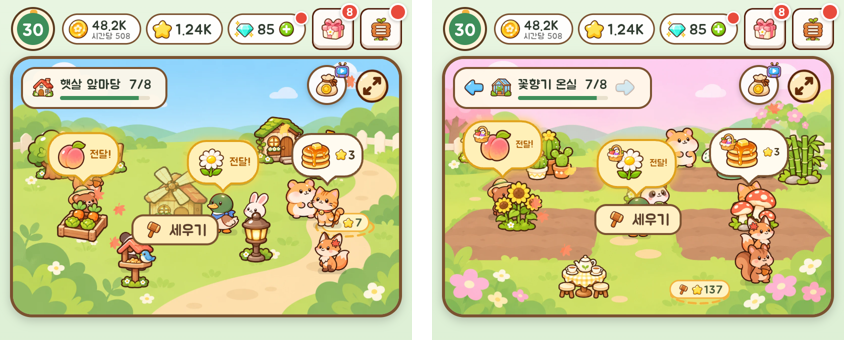
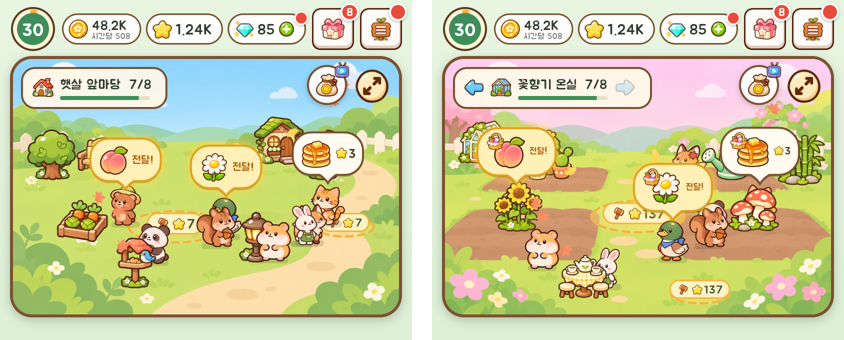
Landmark spot uses the same grammar as decor slots: dashed plot + hammer + star price; build costs stars (priciest decor of the area), levels cost coins
- Removed the ghost image and custom sign
- Tap: builds if enough stars, otherwise opens the landmark sheet
- Request friends' roaming avoids the spot; year sim: 6 areas done day 69 (was 64), renewals 13

Claude-Session: https://claude.ai/code/session_011jC4ZDqrEaYqEhudpbFCaM

diff --git a/lib/ui/garden/garden_scene.dart b/lib/ui/garden/garden_scene.dart
@@ -178,9 +178,9 @@ class _GardenSceneState extends State<GardenScene>
   bool _inLandmark(Offset p) {
     if (_landmarkArt == null && !_landmarkGhost) return false;
     final a = Garden.areaAt(widget.area);
-    return (p.dx - a.landmarkX).abs() < 0.11 &&
+    return (p.dx - a.landmarkX).abs() < 0.13 &&
         p.dy > a.landmarkY - 0.12 &&
-        p.dy < a.landmarkY + 0.03;
+        p.dy < a.landmarkY + 0.08;
   }
 
   int? _walkArea;
@@ -213,6 +213,7 @@ class _GardenSceneState extends State<GardenScene>
       spot.dx + (_rng.nextDouble() * 2 - 1) * _orderRoam,
       spot.dy + (_rng.nextDouble() * 2 - 1) * _orderRoam * 0.5,
     );
+    if (_inLandmark(p)) return spot;
     for (final z in zones) {
       if (p.dx >= z.x0 && p.dx <= z.x1 && p.dy >= z.y0 && p.dy <= z.y1) {
         return p;
@@ -641,80 +642,6 @@ class _GardenSceneState extends State<GardenScene>
       ));
     }
 
-    // 아직 안 세운 랜드마크 자리: 반투명 미리보기 + '세우기' 팻말 (누르면 랜드마크 창)
-    final ghost = _landmarkGhost;
-    if (ghost) {
-      final h = unit * GardenScene.decorK * Landmarks.scale * 0.85;
-      final p = px(area.landmarkX, area.landmarkY);
-      final glow = 0.5 + 0.5 * sin(_t * 3);
-      layers.add((
-        y: p.dy,
-        child: Positioned(
-          key: ValueKey('landmark-ghost-${widget.area}'),
-          left: p.dx - h * 0.6,
-          top: p.dy - h,
-          width: h * 1.2,
-          height: h + 8,
-          child: GestureDetector(
-            onTap: () => widget.onLandmarkTap!(widget.area),
-            child: Stack(
-              alignment: Alignment.bottomCenter,
-              children: [
-                Opacity(
-                  opacity: 0.55 + 0.1 * glow,
-                  child: Image.asset(
-                    Art.landmark(widget.area, 1).path,
-                    fit: BoxFit.contain,
-                    alignment: Alignment.bottomCenter,
-                    errorBuilder: (_, _, _) => const SizedBox.shrink(),
-                  ),
-                ),
-              ],
-            ),
-          ),
-        ),
-      ));
-      // '세우기' 팻말은 친구들보다 앞에 (가려지지 않게)
-      final glow2 = 0.5 + 0.5 * sin(_t * 3);
-      layers.add((
-        y: 99999,
-        child: Positioned(
-          key: ValueKey('landmark-sign-${widget.area}'),
-          left: p.dx - 70,
-          top: p.dy - 14,
-          width: 140,
-          height: 34,
-          child: Center(
-            child: GestureDetector(
-              onTap: () => widget.onLandmarkTap!(widget.area),
-              child: Container(
-                padding: const EdgeInsets.symmetric(
-                  horizontal: 10,
-                  vertical: 3,
-                ),
-                decoration: BoxDecoration(
-                  color: Color.lerp(
-                    const Color(0xFFFFF1C9),
-                    const Color(0xFFFFE08A),
-                    glow2,
-                  ),
-                  borderRadius: BorderRadius.circular(12),
-                  border: Border.all(color: const Color(0xFF7A5230), width: 2),
-                ),
-                child: IconText(
-                  '[[decorate]] ${tr('landmark.build')}',
-                  style: const TextStyle(
-                    fontSize: 15,
-                    color: Color(0xFF5C402C),
-                  ),
-                ),
-              ),
-            ),
-          ),
-        ),
-      ));
-    }
-
     for (var i = 0; i < area.decor.length; i++) {
       final d = area.decor[i];
       final p = px(d.x, d.y);
@@ -891,9 +818,56 @@ class _GardenSceneState extends State<GardenScene>
     return (c: Offset(gx(d.x, s.width), y), w: w);
   }
 
+  /// 랜드마크 빈자리 (장식 빈자리와 같은 모양, 조금 크게).
+  ({Offset c, double w})? _landmarkSlot(AreaDef area, Size s) {
+    if (!_landmarkGhost) return null;
+    final unit = min(s.width, s.height * 1.6);
+    final w = unit * GardenScene.decorK * 1.5 * widget.markerScale;
+    return (
+      c: Offset(gx(area.landmarkX, s.width), area.landmarkY * s.height),
+      w: w,
+    );
+  }
+
   List<Widget> _markerLayer(AreaDef area, Size s) {
-    if (widget.area != game.currentArea) return const [];
     final out = <Widget>[];
+    final ls = _landmarkSlot(area, s);
+    if (ls != null) {
+      final ok = game.canBuildLandmark(widget.area);
+      final glow = ok ? 0.5 + 0.5 * sin(_t * 4) : 0.0;
+      out.add(
+        Positioned(
+          left: ls.c.dx - ls.w / 2,
+          top: ls.c.dy - ls.w * 0.62,
+          width: ls.w,
+          height: ls.w * 0.8,
+          child: Stack(
+            alignment: Alignment.bottomCenter,
+            children: [
+              Positioned(
+                left: 0,
+                right: 0,
+                bottom: 0,
+                height: ls.w * 0.36,
+                child: CustomPaint(
+                  painter: _PlotPainter(affordable: ok, glow: glow),
+                ),
+              ),
+              Positioned(
+                bottom: ls.w * 0.1,
+                child: _CostTag(
+                  locked: false,
+                  affordable: ok,
+                  cost: game.landmarkBuildStars(widget.area),
+                  size: ls.w * 0.18,
+                ),
+              ),
+            ],
+          ),
+        ),
+      );
+    }
+    if (widget.area != game.currentArea) return out;
     for (var i = 0; i < area.decor.length; i++) {
       if (game.isPlaced(widget.area, i)) continue;
       final g = _slotGeom(area, i, s);
@@ -935,7 +909,29 @@ class _GardenSceneState extends State<GardenScene>
   }
 
   List<Widget> _markerHits(AreaDef area, Size s) {
-    if (widget.area != game.currentArea) return const [];
+    final ls = _landmarkSlot(area, s);
+    return [
+      // 랜드마크 빈자리: 별이 있으면 바로 세우고, 모자라면 랜드마크 창 (별 · 설명)
+      if (ls != null)
+        Positioned(
+          left: ls.c.dx - ls.w / 2,
+          top: ls.c.dy - ls.w * 0.45,
+          width: ls.w,
+          height: ls.w * 0.6,
+          child: GestureDetector(
+            behavior: HitTestBehavior.translucent,
+            onTap: () {
+              if (!game.buildLandmark(widget.area)) {
+                widget.onLandmarkTap?.call(widget.area);
+              }
+            },
+          ),
+        ),
+      if (widget.area == game.currentArea) ..._decorHits(area, s),
+    ];
+  }
+
+  List<Widget> _decorHits(AreaDef area, Size s) {
     return [
       for (var i = 0; i < area.decor.length; i++)
         if (!game.isPlaced(widget.area, i))

diff --git a/lib/ui/sheets.dart b/lib/ui/sheets.dart
@@ -177,16 +177,22 @@ class LandmarkRow extends StatelessWidget {
               mainAxisSize: MainAxisSize.min,
               children: [
                 CostButton(
-                  label: maxed
+                  label: lv == 0
+                      ? '${tr('landmark.build')} [[star]]${game.landmarkBuildStars(area)}'
+                      : maxed
                       ? tr('common.max')
                       : game.landmarkCapped(area)
                       ? tr('upgrade.needLevel', {'n': lv + 6})
-                      : '${lv == 0 ? '${tr('landmark.build')} ' : '[[coin]] '}${fmt(game.landmarkCost(area))}',
-                  onPressed: game.canUpgradeLandmark(area)
+                      : '[[coin]] ${fmt(game.landmarkCost(area))}',
+                  onPressed: lv == 0
+                      ? (game.canBuildLandmark(area)
+                            ? () => game.buildLandmark(area)
+                            : null)
+                      : game.canUpgradeLandmark(area)
                       ? () => game.upgradeLandmark(area)
                       : null,
                 ),
-                if (bulk >= 2) ...[
+                if (bulk >= 2 && lv >= 1) ...[
                   const SizedBox(height: 4),
                   CostButton(
                     label: tr('upgrade.max', {'n': bulk}),

diff --git a/tool/balance/balance_sim_test.dart b/tool/balance/balance_sim_test.dart
@@ -224,10 +224,17 @@ class Sim {
           }
         }
       }
-      // 랜드마크 (D-048)
+      // 랜드마크 (D-048): 별이 남으면 세우고, 레벨업은 코인
       for (var a = 0; a < Landmarks.ids.length; a++) {
+        if (g.placed.length == Garden.slotsPerArea || a < g.currentArea) {
+          g.buildLandmark(a);
+        }
         if (g.canUpgradeLandmark(a)) {
-          cands.add((g.landmarkCost(a), 'landmark', () => g.upgradeLandmark(a)));
+          cands.add((
+            g.landmarkCost(a),
+            'landmark',
+            () => g.upgradeLandmark(a),
+          ));
         }
       }
       if (cands.isEmpty) return;
@@ -571,11 +578,12 @@ const profS = Profile('A-noStyles (coins only on functional sinks)', [
   18,
   22,
 ], buyStyles: false);
-const profW = Profile(
-  'W whale-collector (A + all special designs)',
-  [8, 12.5, 18, 22],
-  ownSpecial: true,
-);
+const profW = Profile('W whale-collector (A + all special designs)', [
+  8,
+  12.5,
+  18,
+  22,
+], ownSpecial: true);
 const profB = Profile(
   'B heavy',
   [7, 9, 11, 13, 15, 17, 19, 22],

diff --git a/lib/game/game_state.dart b/lib/game/game_state.dart
@@ -767,8 +767,29 @@ class GameState extends ChangeNotifier {
   int get landmarkCap => min(Landmarks.maxLevel, max(1, level - 5));
   bool landmarkCapped(int area) => landmarkLevel(area) >= landmarkCap;
 
+  /// 세우기(Lv0 → 1)는 다른 장식처럼 별로: 그 구역 가장 비싼 장식만큼.
+  int landmarkBuildStars(int area) =>
+      Garden.decorCost(area, Garden.slotsPerArea - 1);
+
+  bool canBuildLandmark(int area) =>
+      landmarkOpen(area) &&
+      landmarkLevel(area) == 0 &&
+      stars >= landmarkBuildStars(area);
+
+  bool buildLandmark(int area) {
+    if (!canBuildLandmark(area)) return false;
+    stars -= landmarkBuildStars(area);
+    landmarks[area] = 1;
+    _events.add(LandmarkEvent(area, 1, newStage: true));
+    _trace('landmark', '$area,1,build');
+    notifyListeners();
+    return true;
+  }
+
+  /// 레벨업(Lv1 부터)은 코인.
   bool canUpgradeLandmark(int area) =>
       landmarkOpen(area) &&
+      landmarkLevel(area) >= 1 &&
       landmarkLevel(area) < landmarkCap &&
       coins >= landmarkCost(area);
 

diff --git a/test/economy_test.dart b/test/economy_test.dart
@@ -594,7 +594,10 @@ void main() {
     );
     g.coins = 1e15;
     final gm0 = g.gardenMultiplier;
-    expect(g.upgradeLandmark(0), isTrue);
+    expect(g.upgradeLandmark(0), isFalse); // 세우기는 별로 먼저
+    g.stars = g.landmarkBuildStars(0);
+    expect(g.buildLandmark(0), isTrue);
+    expect(g.stars, 0);
     expect(g.landmarkLevel(0), 1);
     expect(g.gardenMultiplier, greaterThan(gm0));
     final n = g.upgradeLandmarkMax(0);

diff --git a/docs/BIBLE.md b/docs/BIBLE.md
@@ -332,7 +332,7 @@
 | D-045 | 11-22 | 공유 · 자랑하기 + 친구 초대: 자랑 카드 4종(내 정원 · 구역 완성 · 재단장 · 전설 아이템, 4:5 1080×1350, 로고 · 친구 코드 · 좌하단/우하단 친구 그림)을 앱 안에서 그려 휴대폰 기본 공유창으로. 축하창에 버튼만 붙이고 자동 팝업은 없음. 카드에는 말풍선 · 리본 글자 · 쓸데없는 딱지를 넣지 않는다: 내 정원 · 구역 완성은 장식과 친구를 모두 놓은 실제 정원 모습, 전설 아이템만 우상단 'LV.30!' 딱지, 아래 두 친구는 카드마다 다른 종류 · 포즈. 초대 링크 = Play 스토어 링크 + 설치 추천인(`referrer=code=…`)으로 첫 실행 때 친구 자동 맺기, 안 되면 코드 직접 입력. 보상: 공유 하루 1번 에너지 10 · 초대받은 새 계정 환영 선물 다이아 50 · 초대한 사람은 그 친구가 **가입 7일 뒤 · 서로 다른 5일 접속 · Lv15** 을 채우면 다이아 100 (최대 5명 = 500). Firestore `invites/{초대받은uid}` 만들기만. 카톡 전용 공유 · io 경유 링크는 2차. 시안 `docs/share/mock_cards.png`, 그림 4건(312~315) + 로딩 · UI 부품 · 꾸밈 조각(316~318) 반입. 구현: 카드는 앱 안 캔버스로 그림(lib/ui/share_card.dart), 정원 화면 카메라 버튼 · 구역 완성 · 재단장 완료 · 전설 아이템(첫 30단계)에서 미리보기 → 공유창. 초대 정보는 공개 프로필의 days · invitedBy(한 번 정하면 못 바꿈) · invitedAt, 초대한 사람이 invitedBy==나 로 찾아 서로 친구 + 보상. 친구 창에 초대 칸(진행 Lv · 날 · 남은 날) | ✅ |
 | D-046 | 11-22 | 꾸밈 효과 (과금 효율 상한): **무과금 완성 = 과금 완성의 40%**, 고과금이 너무 앞서지 않게. ① 꾸밈 점수: 특별(다이아) 디자인 1점 · 고급(코인) 0.4점, 1점 = 영구 수입 +0.25% (특별 전부 +12%, 고급 전부 +4.8%), 친구에게 공개. ② 구역 세트(그 구역 8자리 디자인을 모두 가짐, 높은 쪽 하나만): 앞마당 에너지 통 +5/+2 · 연못 에너지 회복 +5%/+2% · 온실 부탁 별 +5%/+2% · 별빛 언덕 오프라인 최대 +1시간/+24분 · 모래사장 행운 +2%p/+0.8%p · 눈꽃 손님 코인 +10%/+4% (특별/고급). ③ 특별 디자인 가격 80+40×구역(80~280) → 6구역 전부 8,640다이아(₩19,000 한 번으로 끝나지 않게). ④ 계절 세트 보너스 +5% → +2% (24세트 상한 +48%). 구현: 디자인 창에 구역 세트 진행(특별 n/8 · 고급 n/8)과 효과 · 꾸밈 점수 표시, 친구 목록 · 구경 화면에 꾸밈 점수 (프로필 score). 1년 시뮬(A 무과금 · 고급을 코인으로 vs W 같은 플레이 + 특별 디자인 전부): 재단장 13회 같음(13번째 D331 vs D316), 12구역 진입 D271 vs D259, 1년 부탁 9,884 vs 10,499(+6%), Lv86 vs 87, 최고 단계 140~224일 vs 144~221일 → 고과금 진행 이득 약 5~6%(외형 · 점수가 주 동기), 무과금은 고급 세트 6개 · 점수 19.2(과금 48의 40%) 달성 | ✅ |
 | D-047 | 11-22 | 콘텐츠 소모 속도 (1년 시뮬, 하루 48분 성실 유저): 새 그림 구역 6개를 43일에 다 쓰는데 도감 120종 224일 · 상한 강화 105일 · 재단장 1년 13회라 구역만 너무 빨랐다. 4~6구역 별 비용 1150 · 2350 · 4200 → 1600 · 3900 · 8000 으로 6구역 완성 43일 → 64일 (재단장 13회 · 최고 단계 159~194일은 그대로). 나머지는 비공개 테스트 지표(구역 진입일)로 원격 area_star_scale 조정. 반복 콘텐츠(주간 이벤트 등)는 1015 이후, 새 프로젝트 vs 이 게임 확장 결정 뒤에 | ✅ |
-| D-048 | 11-22 | 재단장 뒤 코인 소모처 재설계 (성장 · 소모의 굴레). 1년 시뮬: 3개월 뒤 코인의 ~100% 가 강화 한 곳, 재단장 직후 0초치 강화 연타 → 그 뒤 8시간치 한 번, 사도 화면이 안 바뀜. **A ✅ 일괄 강화**(강화 창 '최대 ×n', 바구니 등급 제외, 축하 연출) · **D ✅ ×2 목표 막대**(생산력 25단계마다 ×2 까지 남은 단계, 넘으면 축하). **B 🟡 정원 랜드마크**: 구역마다 큰 조형물 1개(풍차 · 물레방아 · 꽃 시계탑 · 천문대 · 범선 · 얼음 궁전), 코인으로 레벨업, 재단장해도 유지. 가격은 고정이 아니라 **지금 시간당 수입 × h(L)** (초안 h = 0.5시간 × 1.12^L: Lv1 30분 · Lv20 약 5시간 · Lv40 약 47시간 · 최대 Lv50 약 145시간, 최대는 달성하기 어렵게). 효과 초안: 레벨당 정원 매력 +1%, 10레벨마다 +5% 더. 그림은 10레벨마다 다음 단계(Lv1 · 10 · 20 · 30, 6 × 4장 발주 319~324). **배치: 맵 한가운데 땅의 중심 요소**(장식의 약 2.3배). 이를 위해 장식 18% → 15% · 친구 15% → 12% · 정원에 동시에 보이는 친구 최대 8마리 · 뒷줄 가운데 장식 2개를 양옆으로(x 0.37/0.63 → 0.29/0.71), 친구 · 부탁 자리는 랜드마크 바닥을 피함 (시안 docs/share/layout_compare.png · layout_home.png). 랜드마크와 함께 적용. **B ✅ 구현(그림 대기)**: 가격 = 지금 시간당 수입(플레이 중 실제로 버는 코인 속도, 5분 창 지수 평균 earnRate, 오프라인 보상 제외) × 0.12시간 × 1.115^L, 매력 = 레벨당 +0.4% · 10레벨마다 +3% (Lv50 하나 +35%). 처음 '기본 수입' 기준으로 잡았더니 실제 수입의 85%가 부탁이라 3개월에 6개 모두 Lv50 · 수입 배율 2배가 됐음 → 실제 버는 속도 기준으로 바꿈. 1년 시뮬(A): 30일 Lv10 · 180일 Lv20 · 365일 Lv28~29, 매력 합 +104%, 재단장 13회 · 최고 단계 153~225일로 다른 진행은 그대로. 그림(319~324)이 들어오면 강화 창 '정원 랜드마크' 칸과 정원 가운데에 자동으로 나타남. **B 보완 (1018)**: 랜드마크가 늘 지난 구역에만 서서 안 보이던 문제 → 들어온 구역(지금 구역 포함)에서 세울 수 있게, 안 세운 자리는 반투명 미리보기 + 맨 앞 '세우기' 팻말(누르면 랜드마크 창), 강화가 열린 뒤부터. 초반 싼 수입으로 몰아 올리던 것(7일 Lv23) → 레벨 상한 = 플레이어 레벨 − 5. 1년 시뮬: 7일 Lv5 · 30일 Lv9 · 180일 Lv21 · 365일 Lv28~29, 재단장 13회. **C 🟡 꾸밈 기물 레벨**: 놓은 장식(48자리)마다 레벨, 코인으로 올림, 가격은 지금 수입 × 0.25시간 × 1.15^L, 최대 Lv30(어렵게). 레벨당 매력 +0.2%, 10레벨마다 외형 단계(은 · 금 · 무지개 반짝임 테두리, 효과 그림 3종 발주 예정). **다이아 기물은 높은 레벨에서 출발**: 특별 디자인 +20 · 시즌 +12 · 고급 +6 레벨만큼 효과를 미리 얹고, 레벨업은 모두 코인 → 과금은 '높은 출발선', 성장 노동은 같아 격차가 유지되고 시즌 기물을 사는 재미가 생김. B · C 는 비공개 테스트 2주 지표(재단장까지 가는 비율 · 코인 잔고) 뒤 1년 시뮬로 수치 확정 후 구현 | 🟡 A·D ✅ / B·C 설계 |
+| D-048 | 11-22 | 재단장 뒤 코인 소모처 재설계 (성장 · 소모의 굴레). 1년 시뮬: 3개월 뒤 코인의 ~100% 가 강화 한 곳, 재단장 직후 0초치 강화 연타 → 그 뒤 8시간치 한 번, 사도 화면이 안 바뀜. **A ✅ 일괄 강화**(강화 창 '최대 ×n', 바구니 등급 제외, 축하 연출) · **D ✅ ×2 목표 막대**(생산력 25단계마다 ×2 까지 남은 단계, 넘으면 축하). **B 🟡 정원 랜드마크**: 구역마다 큰 조형물 1개(풍차 · 물레방아 · 꽃 시계탑 · 천문대 · 범선 · 얼음 궁전), 코인으로 레벨업, 재단장해도 유지. 가격은 고정이 아니라 **지금 시간당 수입 × h(L)** (초안 h = 0.5시간 × 1.12^L: Lv1 30분 · Lv20 약 5시간 · Lv40 약 47시간 · 최대 Lv50 약 145시간, 최대는 달성하기 어렵게). 효과 초안: 레벨당 정원 매력 +1%, 10레벨마다 +5% 더. 그림은 10레벨마다 다음 단계(Lv1 · 10 · 20 · 30, 6 × 4장 발주 319~324). **배치: 맵 한가운데 땅의 중심 요소**(장식의 약 2.3배). 이를 위해 장식 18% → 15% · 친구 15% → 12% · 정원에 동시에 보이는 친구 최대 8마리 · 뒷줄 가운데 장식 2개를 양옆으로(x 0.37/0.63 → 0.29/0.71), 친구 · 부탁 자리는 랜드마크 바닥을 피함 (시안 docs/share/layout_compare.png · layout_home.png). 랜드마크와 함께 적용. **B ✅ 구현(그림 대기)**: 가격 = 지금 시간당 수입(플레이 중 실제로 버는 코인 속도, 5분 창 지수 평균 earnRate, 오프라인 보상 제외) × 0.12시간 × 1.115^L, 매력 = 레벨당 +0.4% · 10레벨마다 +3% (Lv50 하나 +35%). 처음 '기본 수입' 기준으로 잡았더니 실제 수입의 85%가 부탁이라 3개월에 6개 모두 Lv50 · 수입 배율 2배가 됐음 → 실제 버는 속도 기준으로 바꿈. 1년 시뮬(A): 30일 Lv10 · 180일 Lv20 · 365일 Lv28~29, 매력 합 +104%, 재단장 13회 · 최고 단계 153~225일로 다른 진행은 그대로. 그림(319~324)이 들어오면 강화 창 '정원 랜드마크' 칸과 정원 가운데에 자동으로 나타남. **B 보완 (1018)**: 랜드마크가 늘 지난 구역에만 서서 안 보이던 문제 → 들어온 구역(지금 구역 포함)에서 세울 수 있게, 안 세운 자리는 다른 장식 빈자리와 같은 문법(점선 자리 + 망치 + 별 가격, 크게): 세우기는 별(그 구역 가장 비싼 장식만큼), 레벨업은 코인. 강화가 열린 뒤부터. 6구역 완성 64 → 69일. 초반 싼 수입으로 몰아 올리던 것(7일 Lv23) → 레벨 상한 = 플레이어 레벨 − 5. 1년 시뮬: 7일 Lv5 · 30일 Lv9 · 180일 Lv21 · 365일 Lv28~29, 재단장 13회. **C 🟡 꾸밈 기물 레벨**: 놓은 장식(48자리)마다 레벨, 코인으로 올림, 가격은 지금 수입 × 0.25시간 × 1.15^L, 최대 Lv30(어렵게). 레벨당 매력 +0.2%, 10레벨마다 외형 단계(은 · 금 · 무지개 반짝임 테두리, 효과 그림 3종 발주 예정). **다이아 기물은 높은 레벨에서 출발**: 특별 디자인 +20 · 시즌 +12 · 고급 +6 레벨만큼 효과를 미리 얹고, 레벨업은 모두 코인 → 과금은 '높은 출발선', 성장 노동은 같아 격차가 유지되고 시즌 기물을 사는 재미가 생김. B · C 는 비공개 테스트 2주 지표(재단장까지 가는 비율 · 코인 잔고) 뒤 1년 시뮬로 수치 확정 후 구현 | 🟡 A·D ✅ / B·C 설계 |
 | D-049 | 11-22 | Play 인앱 업데이트: 게임 화면이 뜨고 4초 뒤 새 버전 확인 → '새 버전이 나왔어요' 창(업데이트 / 닫기 = 그 버전은 하루 뒤 다시) → 게임하는 동안 뒤에서 받기(화면 위 알약에 진행률 %) → 다 받으면 '다시 열기' 창(나중에 눌러도 알약에서 다시 열기). 원격 설정 min_version_code 보다 낮은 앱은 필수(전체 화면) 업데이트. 플러그인 없이 앱에서 직접 (app-update 2.1.0, MethodChannel · EventChannel). Play 로 설치한 앱에서만 동작. 분석 update_start · update_later · update_downloaded · update_restart · update_forced | ✅ |
 | D-041 | 11-22 | 기본 언어를 영어로: 스토어 기본 en-US, 게임도 지원하지 않는 기기 언어 · 빠진 문구는 영어. 다음 언어는 설치 수 우선 기준으로 스페인어(중남미 표준) — 영어가 잘 안 통하고 설치가 많은 시장부터 넓혀 이름을 알린 뒤 고부가가치 시장으로. 글꼴은 Jua 에 라틴 확장 글자를 Jua 획으로 직접 넣는다(빠진 글자만 다른 글꼴로 채우면 티가 남) | ✅ |
 | D-039 | 11-21 | 깜짝 상자 → '추천 아이템': 다이아로 사는 상품은 무엇을 받는지 사기 전에 정확히 보여 주고 그대로 준다 (게임산업법 확률형 아이템 = 유상 아이템 중 종류 · 효과 · 성능이 우연으로 정해지는 것 → 해당 없음). 상품은 판 · 보관함 최고 단계 -2~-1 에서 정하고, 사거나 · 날이 바뀌거나 · 바구니가 더 높아질 때만 바뀐다 (다시 뽑기 없음, 저장됨). 값 = 그 아이템 에너지값 × 0.7 | ✅ |
